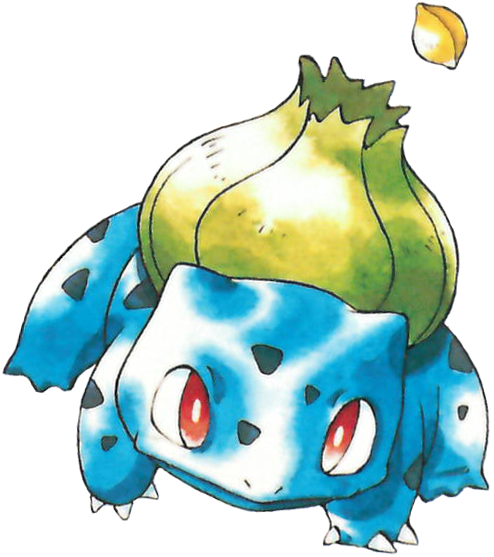
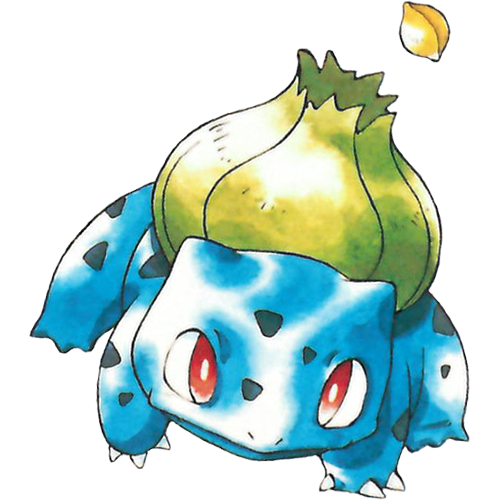
content being displayed from IContent items is now styled to display in a card format

diff --git a/src/styles.scss b/src/styles.scss
@@ -1,1 +1,45 @@
 /* You can add global styles to this file, and also import other style files */
+body{
+    width: 100%;
+    background-color: grey;
+  }
+  app-root section{
+    display: flex;
+    flex-wrap: wrap;
+    width: 90%;
+    justify-content: space-around;
+    margin: 0, auto;
+  }
+  app-root section article{
+    width: 30%;
+    box-shadow: 0 0 20px rgba(0, 0, 0, 0.2);
+    max-width: 600px;
+    background-color: lightgrey;
+    margin: 1%;
+    border-radius: 20px;
+  }
+  app-root section article h2{
+    width: 100%;
+    font-size: 180%;
+    text-align: center;
+    font-family: sans-serif;
+  }
+  app-root section article figure{
+    display: flex;
+  }
+  
+  app-root section article img{
+    width: 50%;
+    background-color: whitesmoke;
+    padding: 5%;
+    border-radius: 10%;
+  }
+  app-root section article figcaption{
+    width: 50%;
+    padding: 10%;
+    font-family: sans-serif;
+    font-size: 110%;
+    font-weight:bold;
+    line-height: 120%;
+  }
+

diff --git a/src/app/models/content-list.ts b/src/app/models/content-list.ts
@@ -21,7 +21,13 @@ export class ContentList {
 
     toString(index: number): string{
         let content: IContent = this._items[index];
-        let htmlContent = `<h2>${content.name} #${content.id}</h2>
+        let zero = ""
+        if (content.id < 10){
+             zero = "00";
+        }else if (content.id < 100){
+             zero = "0";
+        }
+        let htmlContent = `<h2>${content.name} #${zero}${content.id}</h2>
         <figure>
             <img src="${content.imgSrc}" alt="${content.name}">
             <figcaption>${content.description}</figcaption>

diff --git a/src/app/app.component.html b/src/app/app.component.html
@@ -1,4 +1,6 @@
-<section [innerHTML]="contentList.toString(0)"></section>
-<section [innerHTML]="contentList.toString(1)"></section>
-<section [innerHTML]="contentList.toString(2)"></section>
-<section [innerHTML]="contentList.toString(3)"></section>
+<section>
+    <article [innerHTML]="contentList.toString(0)"></article>
+    <article [innerHTML]="contentList.toString(1)"></article>
+    <article [innerHTML]="contentList.toString(2)"></article>
+    <article [innerHTML]="contentList.toString(3)"></article>
+</section>
